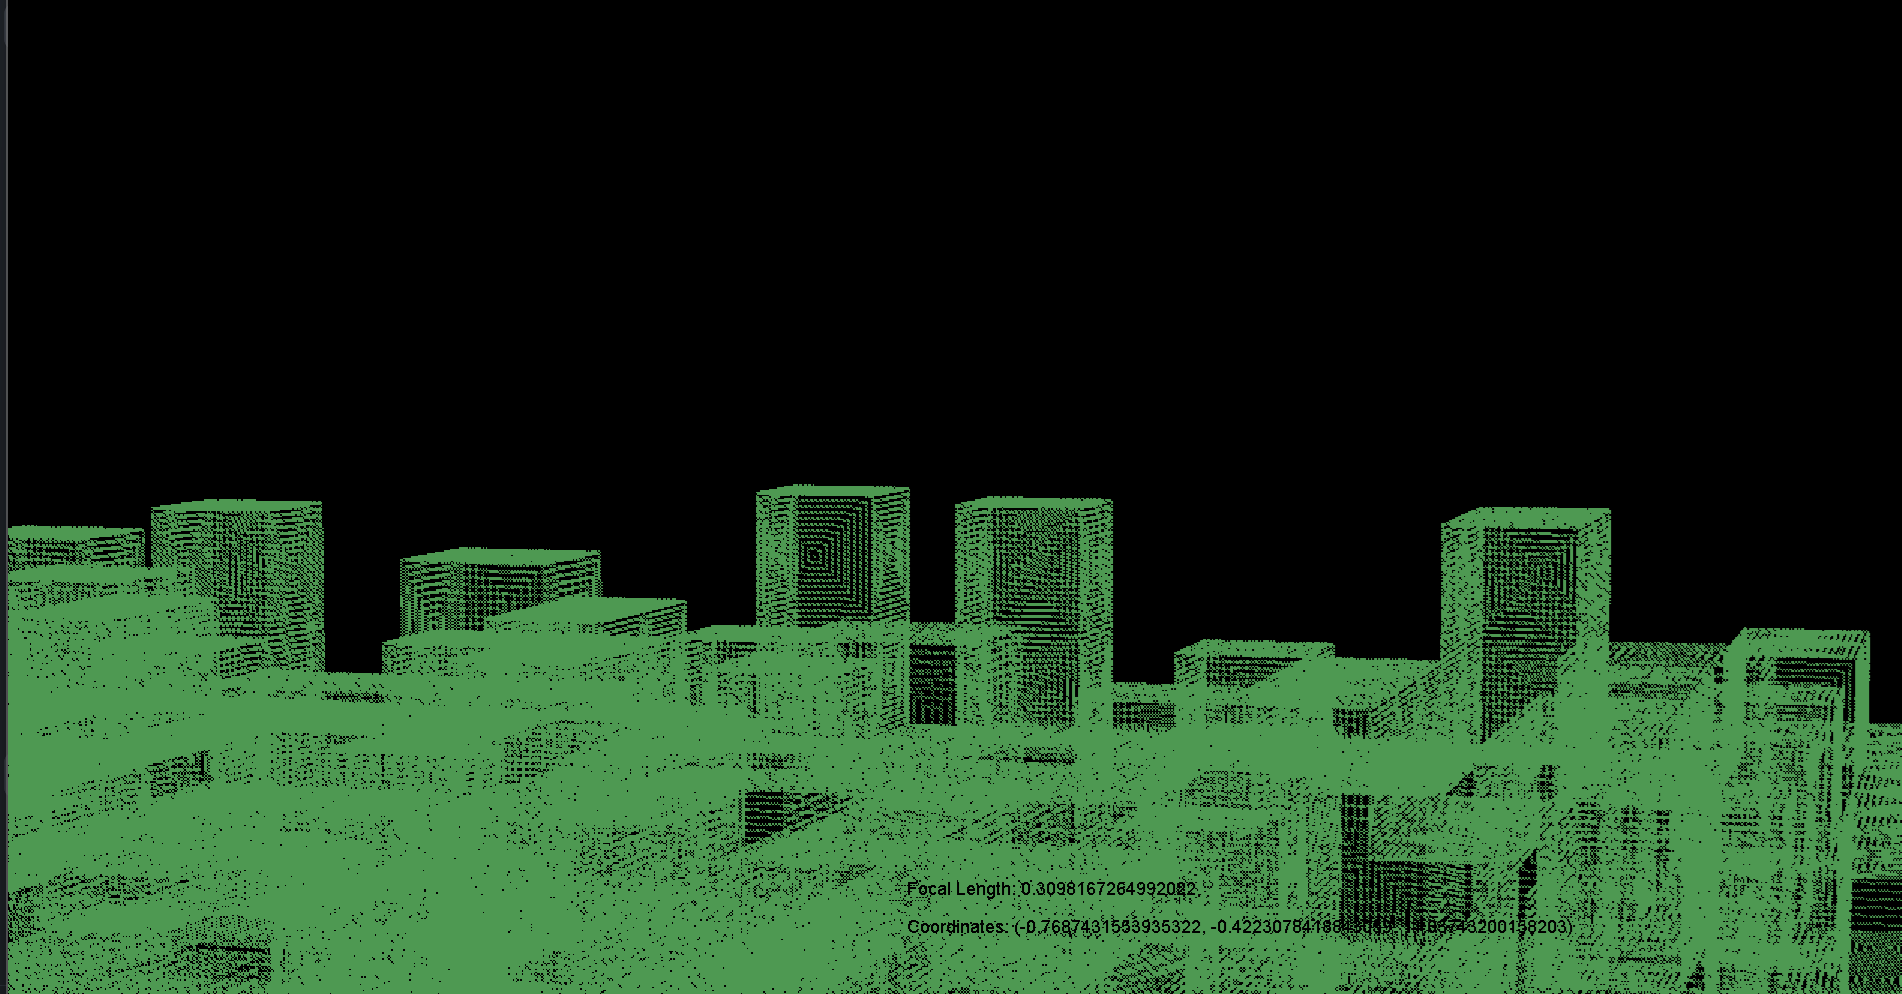
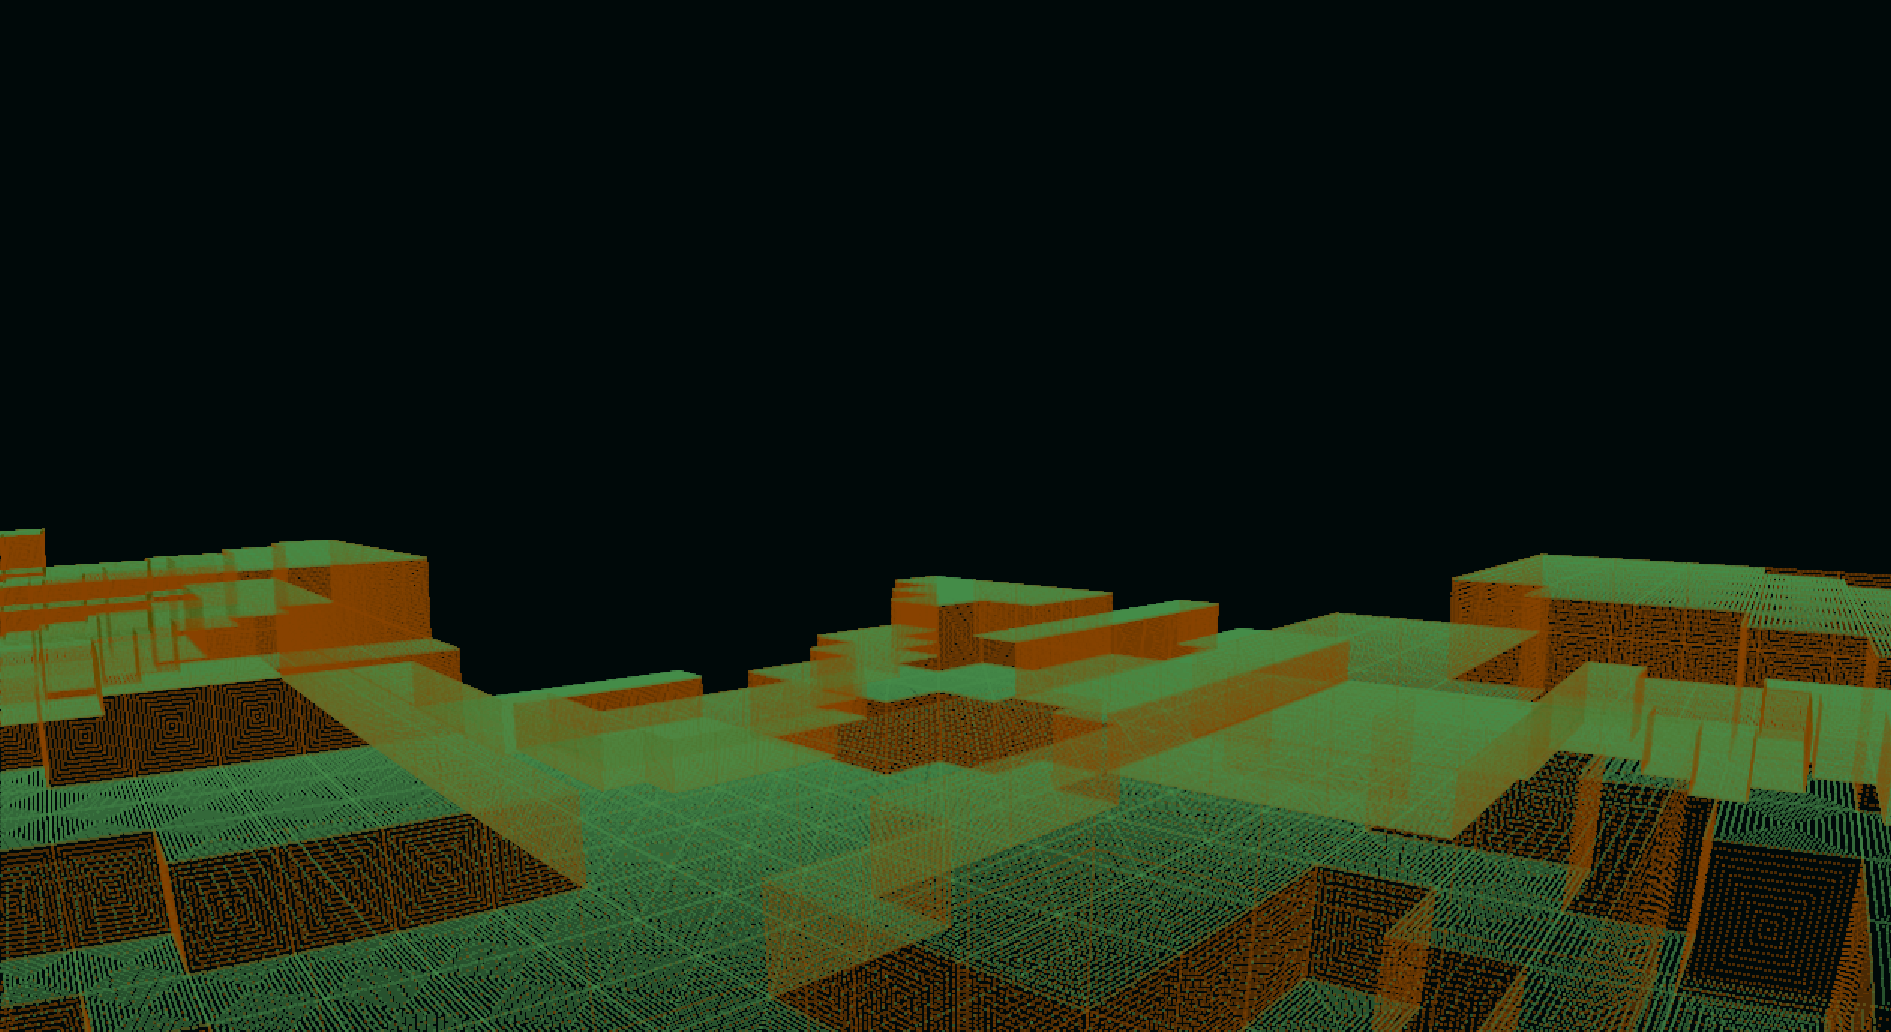
Made changes to jumpp and chunk

diff --git a/Main.java b/Main.java
@@ -1,8 +1,12 @@
+// Author: Anish Nagariya & Kenny Zheng
+// Date: June 11th
+// Program Name: Craft Me In
+// Description: This is the perlin noise generation code found online. Creates slopes and terrains.
+
 package main;
 
 import javax.swing.*;
 import java.awt.*;
-import java.io.IOException;
 import java.awt.event.ActionEvent;
 import java.awt.event.ActionListener;
 import javax.sound.sampled.*;
@@ -59,15 +63,19 @@ public class Main extends JFrame {
         // Buttons
         JButton survivalButton = new JButton("Survival");
         JButton creativeButton = new JButton("Creative");
+        JButton clearWorldButton = new JButton("Clear World");
 
         customizeButton(survivalButton);
         customizeButton(creativeButton);
+        customizeButton(clearWorldButton);
 
         survivalButton.setAlignmentX(Component.CENTER_ALIGNMENT);
         creativeButton.setAlignmentX(Component.CENTER_ALIGNMENT);
+        clearWorldButton.setAlignmentX(Component.CENTER_ALIGNMENT);
 
         survivalButton.setMaximumSize(new Dimension(200, 50));
         creativeButton.setMaximumSize(new Dimension(200, 50));
+        clearWorldButton.setMaximumSize(new Dimension(200, 50));
 
         survivalButton.addActionListener(new ActionListener() {
             @Override
@@ -83,6 +91,13 @@ public class Main extends JFrame {
             }
         });
 
+        clearWorldButton.addActionListener(new ActionListener() {
+            @Override
+            public void actionPerformed(ActionEvent e) {
+                clearWorld();
+            }
+        });
+
         panel.add(titleLabel);
         panel.add(Box.createRigidArea(new Dimension(0, 10))); // Reduced space between title and instructions
         panel.add(instructionsLabel1);
@@ -94,10 +109,13 @@ public class Main extends JFrame {
         panel.add(survivalButton);
         panel.add(Box.createRigidArea(new Dimension(0, 20))); // Add space
         panel.add(creativeButton);
+        panel.add(Box.createRigidArea(new Dimension(0, 20))); // Add space
+        panel.add(clearWorldButton);
 
         add(panel);
     }
 
+    // for background image
     private JPanel getPanel() {
         JPanel panel = new JPanel() {
             @Override
@@ -123,7 +141,7 @@ public class Main extends JFrame {
         button.setCursor(new Cursor(Cursor.HAND_CURSOR));
     }
 
-    // Methods to start game modes
+    // Start survival mode
     private void startSurvivalMode() {
         try {
             Engine.main(true);
@@ -133,6 +151,7 @@ public class Main extends JFrame {
         }
     }
 
+    // start creative mode
     private void startCreativeMode() {
         try {
             Engine.main(false);
@@ -142,6 +161,27 @@ public class Main extends JFrame {
         }
     }
 
+    // delete stored chunks and start a new world
+    private void clearWorld() {
+        File folder = new File("craftmein/Chunks");
+        if (folder.exists() && folder.isDirectory()) {
+            File[] files = folder.listFiles();
+            if (files != null) {
+                for (File file : files) {
+                    if (file.isFile()) {
+                        file.delete();
+                    }
+                }
+                JOptionPane.showMessageDialog(this, "World cleared successfully.");
+            } else {
+                JOptionPane.showMessageDialog(this, "No files found to delete.");
+            }
+        } else {
+            JOptionPane.showMessageDialog(this, "Directory not found.");
+        }
+    }
+
+    // play minecraft background music forever
     void playAudio(){
         try {
             File audioFile = new File("Minecraft.wav");
@@ -150,7 +190,7 @@ public class Main extends JFrame {
             clip.open(audioStream);
             clip.loop(Clip.LOOP_CONTINUOUSLY);
             clip.start();
-        }catch (Error | LineUnavailableException | IOException e){
+        } catch (Error | LineUnavailableException | IOException e) {
         } catch (UnsupportedAudioFileException e) {
             throw new RuntimeException(e);
         }

diff --git a/Player.java b/Player.java
@@ -37,43 +37,47 @@ public class Player extends gameObject{
     // changes its coordinates every tick based on its velocity
     public void tick() {
         // moves the player
-        canJump = false;
-        if (movement[0]) addForce(norm.mul(0.05));
-        if (movement[1]) addForce(left.mul(-0.05));
-        if (movement[2]) addForce(norm.mul(-0.05));
-        if (movement[3]) addForce(left.mul(0.05));
-        if (this.survival) {
-            checkCollision(); // checks for collisions
-            if (movement[4] && canJump) addForce(Vector.k.mul(1.50));
-        }else{
-            if (movement[4]) addForce(Vector.k.mul(0.25));
-            checkCollision();
-        }
-
-        // updates velocity and coordinates
-        if (this.vel.mag() < 0.01) this.vel = Vector.zero;
-        this.coords = this.coords.add(this.vel);
-        this.vel = this.vel.mul(0.5);
-        this.addForce(new Vector(0, 0, -0.05)); // gravity
-
-        // Moves the mouse to the centre of the screen if not shift locked
-        // rotates and moves the camera to follow the player
-        if (locked) {
-            // Finds the difference in mouse coordinates
-            Point p = MouseInfo.getPointerInfo().getLocation();
-            int screenX = this.window.getWidth() / 2;
-            int screenY = this.window.getHeight() / 2;
-            setRot(getAngles().add(new Vector(0, (-screenY + p.getY() - window.screenLoc().y) / 2000, (screenX - p.getX() + window.screenLoc().x) / 2000)));
-
-            try {
-                Robot robot = new Robot();
-                robot.mouseMove(screenX + window.screenLoc().x, screenY + window.screenLoc().y);
-
-            } catch (AWTException e) {
-                e.printStackTrace();
+        if (!this.locked) {
+            ;
+        } else {
+            canJump = false;
+            if (movement[0]) addForce(norm.mul(0.05));
+            if (movement[1]) addForce(left.mul(-0.05));
+            if (movement[2]) addForce(norm.mul(-0.05));
+            if (movement[3]) addForce(left.mul(0.05));
+            if (this.survival) {
+                checkCollision(); // checks for collisions
+                if (movement[4] && canJump) addForce(Vector.k.mul(1.50));
+            } else {
+                if (movement[4]) addForce(Vector.k.mul(0.25));
+                checkCollision();
             }
+
+            // updates velocity and coordinates
+            if (this.vel.mag() < 0.01) this.vel = Vector.zero;
+            this.coords = this.coords.add(this.vel);
+            this.vel = this.vel.mul(0.5);
+            this.addForce(new Vector(0, 0, -0.05)); // gravity
+
+            // Moves the mouse to the centre of the screen if not shift locked
+            // rotates and moves the camera to follow the player
+            if (locked) {
+                // Finds the difference in mouse coordinates
+                Point p = MouseInfo.getPointerInfo().getLocation();
+                int screenX = this.window.getWidth() / 2;
+                int screenY = this.window.getHeight() / 2;
+                setRot(getAngles().add(new Vector(0, (-screenY + p.getY() - window.screenLoc().y) / 2000, (screenX - p.getX() + window.screenLoc().x) / 2000)));
+
+                try {
+                    Robot robot = new Robot();
+                    robot.mouseMove(screenX + window.screenLoc().x, screenY + window.screenLoc().y);
+
+                } catch (AWTException e) {
+                    e.printStackTrace();
+                }
+            }
+            camera.coords = this.coords.add(CAMERA_OFFSET); // moves the camera with the player
         }
-        camera.coords = this.coords.add(CAMERA_OFFSET); // moves the camera with the player
     }
 
     // helper code to run on every render

diff --git a/PerlinNoise.java b/PerlinNoise.java
@@ -1,7 +1,7 @@
-// Author: Unknown
+// Author: Anish Nagariya and Kenny Zheng
 // Date: June 11th
 // Program Name: Craft Me In
-// Description: This is the perlin noise generation code found online. Creates slopes and terrains.
+// Description: This is the perlin noise generation code. Creates slopes and terrains.
 
 package main;
 
@@ -28,19 +28,20 @@ public class PerlinNoise {
     public int[][] generateNoise() {
         for (int i = 0; i < width; i++) {
             for (int j = 0; j < height; j++) {
-                this.noise[i][j] = random.nextInt(30);
+                this.noise[i][j] = random.nextInt(30); // assign random value
             }
         }
 
+        // smooth about my taking average of neighbours, repeat for k times
         int[][] noise2 = new int[this.width][this.height];
-        for (int k = 0; k < 10; k++) {
+        for (int k = 0; k < 5; k++) {
             for (int i = 0; i < this.width; i++) {
                 for (int j = 0; j < this.height; j++) {
                     double sum = 0;
                     int count = 0;
                     for (int dx = -1; dx <= 1; dx++) {
                         for (int dy = -1; dy <= 1; dy++) {
-                            if (dx == 0 && dy == 0) continue; // Skip the current cell
+                            if (dx == 0 && dy == 0) continue;
                             int x = i + dx;
                             int y = j + dy;
                             if (x >= 0 && x < this.width && y >= 0 && y < this.height) {
@@ -58,64 +59,3 @@ public class PerlinNoise {
         return noise;
     }
 }
-//
-//    // fade field
-//    private double fade(double t) {
-//        return t * t * t * (t * (t * 6 - 15) + 10);
-//    }
-//
-//    // lerp function
-//    private double lerp(double t, double a, double b) {
-//        return a + t * (b - a);
-//    }
-//
-//    // add gradient between two objects
-//    private double grad(int hash, double x, double y) {
-//        int h = hash & 15;
-//        double u = h < 8 ? x : y;
-//        double v = h < 4 ? y : h == 12 || h == 14 ? x : 0;
-//        return ((h & 1) == 0 ? u : -u) + ((h & 2) == 0 ? v : -v);
-//    }
-//
-//    // add fades and gradients to make perlin noise like a field
-//    private double perlin(double x, double y) {
-//        int X = (int) Math.floor(x) & 255;
-//        int Y = (int) Math.floor(y) & 255;
-//
-//        x -= Math.floor(x);
-//        y -= Math.floor(y);
-//
-//        double u = fade(x);
-//        double v = fade(y);
-//
-//        int[] p = new int[512];
-//        for (int i = 0; i < 256; i++) {
-//            p[256 + i] = p[i] = random.nextInt(256);
-//        }
-//
-//        int A = p[X] + Y;
-//        int AA = p[A];
-//        int AB = p[A + 1];
-//        int B = p[X + 1] + Y;
-//        int BA = p[B];
-//        int BB = p[B + 1];
-//
-//        return lerp(v, lerp(u, grad(p[AA], x, y),
-//                        grad(p[BA], x - 1, y)),
-//                lerp(u, grad(p[AB], x, y - 1),
-//                        grad(p[BB], x - 1, y - 1)));
-//    }
-//
-//    // randomly generate the heatmap
-//    public int[][] generateNoise() {
-//        for (int i = 0; i < width; i++) {
-//            for (int j = 0; j < height; j++) {
-//                double x = (double) i / width * 5;
-//                double y = (double) j / height * 5;
-//                noise[i][j] = (int) perlin(x, y);
-//            }
-//        }
-//        System.out.println(Arrays.deepToString(noise));
-//        return noise;
-//    }
-//}

diff --git a/Chunk.java b/Chunk.java
@@ -70,7 +70,11 @@ public class Chunk extends gameObject {
                     int height = (int) (Math.round(heatmap[i + SIZE][j]) - FACTOR);
                     while (height >= 0) { // give each coordinate height based on perlin noise
                         loc = new Point3D(i, j, height);
-                        blocks.put(loc, new Dirt(loc, ID.Dirt));
+                        if (height < 5){
+                            blocks.put(loc, new Stone(loc, ID.Stone));
+                        }else {
+                            blocks.put(loc, new Dirt(loc, ID.Dirt));
+                        }
                         height--;
                     }
                 }

diff --git a/Engine.java b/Engine.java
@@ -89,7 +89,7 @@ public class Engine extends Canvas implements Runnable{
         this.window = new Window(WIDTH, HEIGHT, "Craft Me In", this);
 
         //Places the Camera
-        player = new Player(new Point3D(0, 0, 100), 0.2F, ID.Player, handler, window, survival);
+        player = new Player(new Point3D(0, 0, 30), 0.2F, ID.Player, handler, window, survival);
         handler.addObject(player);
 
         handler.addObject(new Cube(new Point3D(10, 10, 300), 10, ID.Cube, handler, Color.yellow));

diff --git a/KeyInput.java b/KeyInput.java
@@ -66,7 +66,7 @@ public class KeyInput extends KeyAdapter {
     // Player specific key inputs, and also returns the player object for further use
     private static Player getPlayer(Player player, int key) {
         // If the shift key is pressed, it switches between the camera being locked or not
-        if (key == KeyEvent.VK_SHIFT) {
+        if (key == KeyEvent.VK_ESCAPE) {
             player.switchLock();
         }
         if(key == KeyEvent.VK_W ){
